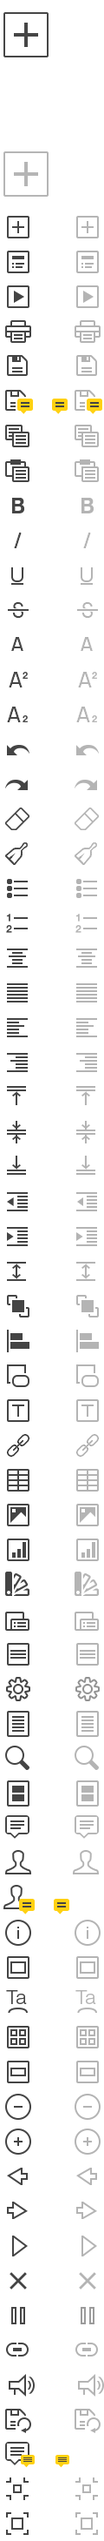
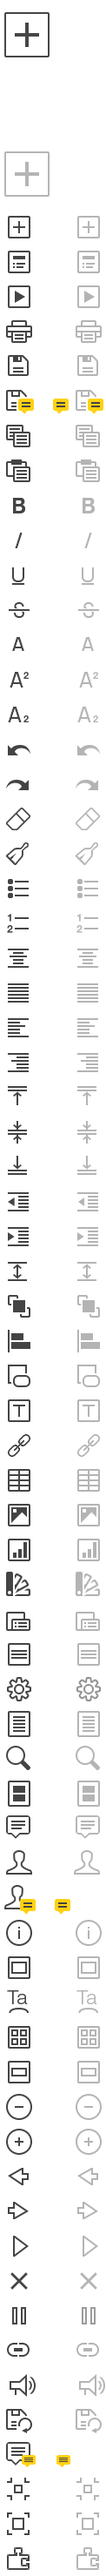
[PE] Add plugins.

diff --git a/apps/presentationeditor/main/app/controller/Main.js b/apps/presentationeditor/main/app/controller/Main.js
@@ -127,6 +127,7 @@ define([
                     // Initialize api gateway
                     this.editorConfig = {};
                     this.appOptions = {};
+                    this.plugins = undefined;
                     Common.Gateway.on('init',           _.bind(this.loadConfig, this));
                     Common.Gateway.on('showmessage',    _.bind(this.onExternalMessage, this));
                     Common.Gateway.on('opendocument',   _.bind(this.loadDocument, this));
@@ -222,6 +223,8 @@ define([
                 this.appOptions.canBackToFolder = (this.editorConfig.canBackToFolder!==false) && (typeof (this.editorConfig.customization) == 'object')
                                                   && (typeof (this.editorConfig.customization.goback) == 'object') && !_.isEmpty(this.editorConfig.customization.goback.url);
                 this.appOptions.canBack         = this.editorConfig.nativeApp !== true && this.appOptions.canBackToFolder === true;
+                this.appOptions.canPlugins      = false;
+                this.plugins                    = this.editorConfig.plugins;
 
                 this.getApplication()
                     .getController('Viewport')
@@ -606,13 +609,18 @@ define([
                     fontsController             = application.getController('Common.Controllers.Fonts'),
                     rightmenuController         = application.getController('RightMenu'),
                     leftmenuController          = application.getController('LeftMenu'),
-                    chatController              = application.getController('Common.Controllers.Chat');
+                    chatController              = application.getController('Common.Controllers.Chat'),
+                    pluginsController           = application.getController('Common.Controllers.Plugins');
 
                 leftmenuController.getView('LeftMenu').getMenu('file').loadDocument({doc:me.document});
                 leftmenuController.setMode(me.appOptions).setApi(me.api).createDelayedElements();
 
                 chatController.setApi(this.api).setMode(this.appOptions);
                 application.getController('Common.Controllers.ExternalDiagramEditor').setApi(this.api).loadConfig({config:this.editorConfig, customization: this.editorConfig.customization});
+
+                pluginsController.setApi(me.api);
+                me.updatePluginsList(me.plugins);
+                me.api.asc_registerCallback('asc_onPluginsInit', _.bind(me.updatePluginsList, me));
 
                 documentHolderController.setApi(me.api);
                 documentHolderController.createDelayedElements();
@@ -1476,6 +1484,61 @@ define([
                     };
                 }
                 if (url) this.iframePrint.src = url;
+            },
+
+            updatePluginsList: function(plugins) {
+                var pluginStore = this.getApplication().getCollection('Common.Collections.Plugins'),
+                    isEdit = this.appOptions.isEdit;
+                if (pluginStore && plugins) {
+                    var arr = [];
+                    plugins.pluginsData.forEach(function(item){
+                        var variations = item.variations,
+                            variationsArr = [];
+                        variations.forEach(function(itemVar){
+                            var isSupported = false;
+                            for (var i=0; i<itemVar.EditorsSupport.length; i++){
+                                if (itemVar.EditorsSupport[i]=='word') {
+                                    isSupported = true; break;
+                                }
+                            }
+                            if (isSupported && (isEdit || itemVar.isViewer))
+                                variationsArr.push(new Common.Models.PluginVariation({
+                                    description: itemVar.description,
+                                    index: variationsArr.length,
+                                    url : itemVar.url,
+                                    icons  : itemVar.icons,
+                                    isViewer: itemVar.isViewer,
+                                    EditorsSupport: itemVar.EditorsSupport,
+                                    isVisual: itemVar.isVisual,
+                                    isModal: itemVar.isModal,
+                                    isInsideMode: itemVar.isInsideMode,
+                                    initDataType: itemVar.initDataType,
+                                    initData: itemVar.initData,
+                                    isUpdateOleOnResize : itemVar.isUpdateOleOnResize,
+                                    buttons: itemVar.buttons
+                                }));
+                        });
+                        if (variationsArr.length>0)
+                            arr.push(new Common.Models.Plugin({
+                                name : item.name,
+                                guid: item.guid,
+                                baseUrl : item.baseUrl,
+                                variations: variationsArr,
+                                currentVariation: 0
+                            }));
+                    });
+
+                    pluginStore.reset(arr);
+
+                    this.appOptions.pluginsPath = (plugins.url);
+                    this.appOptions.canPlugins = (arr.length>0);
+                } else {
+                    this.appOptions.pluginsPath = '';
+                    this.appOptions.canPlugins = false;
+                }
+                if (this.appOptions.canPlugins)
+                    this.getApplication().getController('Common.Controllers.Plugins').setMode(this.appOptions);
+                this.getApplication().getController('LeftMenu').enablePlugins();
             },
 
             // Translation

diff --git a/apps/presentationeditor/main/app/view/LeftMenu.js b/apps/presentationeditor/main/app/view/LeftMenu.js
@@ -50,6 +50,7 @@ define([
     'common/main/lib/view/Comments',
     'common/main/lib/view/Chat',
     /** coauthoring end **/
+    'common/main/lib/view/Plugins',
     'common/main/lib/view/SearchDialog',
     'presentationeditor/main/app/view/FileMenu'
 ], function (menuTemplate, $, _, Backbone) {
@@ -69,6 +70,7 @@ define([
                 /** coauthoring begin **/
                 'click #left-btn-comments': _.bind(this.onCoauthOptions, this),
                 'click #left-btn-chat': _.bind(this.onCoauthOptions, this),
+                'click #left-btn-plugins': _.bind(this.onCoauthOptions, this),
                 /** coauthoring end **/
                 'click #left-btn-support': function() {
                     var config = this.mode.customization;
@@ -154,6 +156,16 @@ define([
             this.btnChat.on('click',            _.bind(this.onBtnMenuClick, this));
             /** coauthoring end **/
 
+            this.btnPlugins = new Common.UI.Button({
+                el: $('#left-btn-plugins'),
+                hint: this.tipPlugins,
+                enableToggle: true,
+                disabled: true,
+                toggleGroup: 'leftMenuGroup'
+            });
+            this.btnPlugins.hide();
+            this.btnPlugins.on('click',         _.bind(this.onBtnMenuClick, this));
+            
             this.btnSearch.on('click',          _.bind(this.onBtnMenuClick, this));
             this.btnThumbs.on('click',          _.bind(this.onBtnMenuClick, this));
             this.btnAbout.on('toggle',          _.bind(this.onBtnMenuToggle, this));
@@ -216,8 +228,8 @@ define([
             (!btn.pressed) && this.fireEvent('panel:show', [this, btn.options.action, btn.pressed]);
         },
 
-        /** coauthoring begin **/
         onCoauthOptions: function(e) {
+            /** coauthoring begin **/
             if (this.mode.canCoAuthoring) {
                 if (this.mode.canComments) {
                     if (this.btnComments.pressed && this.btnComments.$el.hasClass('notify'))
@@ -235,16 +247,28 @@ define([
                         this.panelChat['hide']();
                 }
             }
+            /** coauthoring end **/
+            if (this.mode.canPlugins && this.panelPlugins) {
+                if (this.btnPlugins.pressed) {
+                    this.panelPlugins.show();
+                } else
+                    this.panelPlugins['hide']();
+            }
         },
 
         setOptionsPanel: function(name, panel) {
+            /** coauthoring begin **/
             if (name == 'chat') {
                 this.panelChat = panel.render('#left-panel-chat');
             } else if (name == 'comment') {
                 this.panelComments = panel;
+            } else /** coauthoring end **/
+            if (name == 'plugins' && !this.panelPlugins) {
+                this.panelPlugins = panel.render('#left-panel-plugins');
             }
         },
 
+        /** coauthoring begin **/
         markCoauthOptions: function(opt, ignoreDisabled) {
             if (opt=='chat' && this.btnChat.isVisible() &&
                     !this.btnChat.isDisabled() && !this.btnChat.pressed) {
@@ -276,6 +300,10 @@ define([
                 }
             }
             /** coauthoring end **/
+            if (this.mode.canPlugins && this.panelPlugins) {
+                this.panelPlugins['hide']();
+                this.btnPlugins.toggle(false, true);
+            }
             this.fireEvent('panel:show', [this, '', false]);
         },
 
@@ -297,6 +325,7 @@ define([
             this.btnComments.setDisabled(disable);
             this.btnChat.setDisabled(disable);
             /** coauthoring end **/
+            this.btnPlugins.setDisabled(disable);
         },
 
         showMenu: function(menu) {
@@ -352,6 +381,7 @@ define([
         tipSupport  : 'Feedback & Support',
         tipFile     : 'File',
         tipSearch   : 'Search',
-        tipSlides: 'Slides'
+        tipSlides: 'Slides',
+        tipPlugins  : 'Add-ons'
     }, PE.Views.LeftMenu || {}));
 });

diff --git a/apps/presentationeditor/main/app/controller/LeftMenu.js b/apps/presentationeditor/main/app/controller/LeftMenu.js
@@ -172,6 +172,14 @@ define([
             return this;
         },
 
+        enablePlugins: function() {
+            if (this.mode.canPlugins) {
+                this.leftMenu.btnPlugins.show();
+                this.leftMenu.setOptionsPanel('plugins', this.getApplication().getController('Common.Controllers.Plugins').getView('Common.Views.Plugins'));
+            } else
+                this.leftMenu.btnPlugins.hide();
+        },
+
         clickMenuFileItem: function(menu, action, isopts) {
             var close_menu = true;
             switch (action) {
@@ -331,6 +339,7 @@ define([
             this.leftMenu.btnComments.setDisabled(true);
             this.leftMenu.btnChat.setDisabled(true);
             /** coauthoring end **/
+            this.leftMenu.btnPlugins.setDisabled(true);
 
             this.leftMenu.getMenu('file').setMode({isDisconnected: true});
             if ( this.dlgSearch ) {
@@ -445,7 +454,14 @@ define([
                         $.fn.dropdown.Constructor.prototype.keydown.call(menu_opened[0], e);
                         return false;
                     }
-                    if (this.leftMenu.btnFile.pressed ||  this.leftMenu.btnAbout.pressed ||
+                    if (this.mode.canPlugins && this.leftMenu.panelPlugins) {
+                        menu_opened = this.leftMenu.panelPlugins.$el.find('#menu-plugin-container.open > [data-toggle="dropdown"]');
+                        if (menu_opened.length) {
+                            $.fn.dropdown.Constructor.prototype.keydown.call(menu_opened[0], e);
+                            return false;
+                        }
+                    }
+                    if (this.leftMenu.btnFile.pressed ||  this.leftMenu.btnAbout.pressed || this.leftMenu.btnPlugins.pressed ||
                         $(e.target).parents('#left-menu').length ) {
                         this.leftMenu.close();
                         Common.NotificationCenter.trigger('layout:changed', 'leftmenu');

diff --git a/apps/presentationeditor/main/app.js b/apps/presentationeditor/main/app.js
@@ -157,7 +157,8 @@ require([
             , 'Common.Controllers.Chat',
             'Common.Controllers.Comments',
             /** coauthoring end **/
-            'Common.Controllers.ExternalDiagramEditor'
+            ,'Common.Controllers.Plugins'
+            ,'Common.Controllers.ExternalDiagramEditor'
         ]
     });
 
@@ -184,6 +185,7 @@ require([
         ,'common/main/lib/controller/Comments',
         'common/main/lib/controller/Chat',
         /** coauthoring end **/
+        'common/main/lib/controller/Plugins',
         'presentationeditor/main/app/view/ChartSettings',
         'common/main/lib/controller/ExternalDiagramEditor'
     ], function() {

diff --git a/apps/presentationeditor/main/app_dev.js b/apps/presentationeditor/main/app_dev.js
@@ -148,7 +148,8 @@ require([
             , 'Common.Controllers.Chat',
             'Common.Controllers.Comments',
             /** coauthoring end **/
-            'Common.Controllers.ExternalDiagramEditor'
+            ,'Common.Controllers.Plugins'
+            ,'Common.Controllers.ExternalDiagramEditor'
         ]
     });
 
@@ -175,6 +176,7 @@ require([
         ,'common/main/lib/controller/Comments',
         'common/main/lib/controller/Chat',
         /** coauthoring end **/
+        'common/main/lib/controller/Plugins',
         'presentationeditor/main/app/view/ChartSettings',
         'common/main/lib/controller/ExternalDiagramEditor'
     ], function() {

diff --git a/apps/presentationeditor/main/resources/less/leftmenu.less b/apps/presentationeditor/main/resources/less/leftmenu.less
@@ -15,6 +15,7 @@
             .toolbar-btn-icon(btn-menu-chat,        53, @toolbar-icon-size);
             .toolbar-btn-icon(btn-menu-about,       55, @toolbar-icon-size);
             .toolbar-btn-icon(btn-menu-support,     68, @toolbar-icon-size);
+            .toolbar-btn-icon(btn-menu-plugin,      73, @toolbar-icon-size);
 
             button.notify .btn-menu-chat,
             button.notify.over > .btn-menu-chat {background-position: -0*@toolbar-icon-size -54*@toolbar-icon-size;}

diff --git a/apps/presentationeditor/main/resources/less/app.less b/apps/presentationeditor/main/resources/less/app.less
@@ -109,6 +109,7 @@
 @import "../../../../common/main/resources/less/scroller.less";
 @import "../../../../common/main/resources/less/synchronize-tip.less";
 @import "../../../../common/main/resources/less/common.less";
+@import "../../../../common/main/resources/less/plugins.less";
 
 // App
 // --------------------------------------------------
